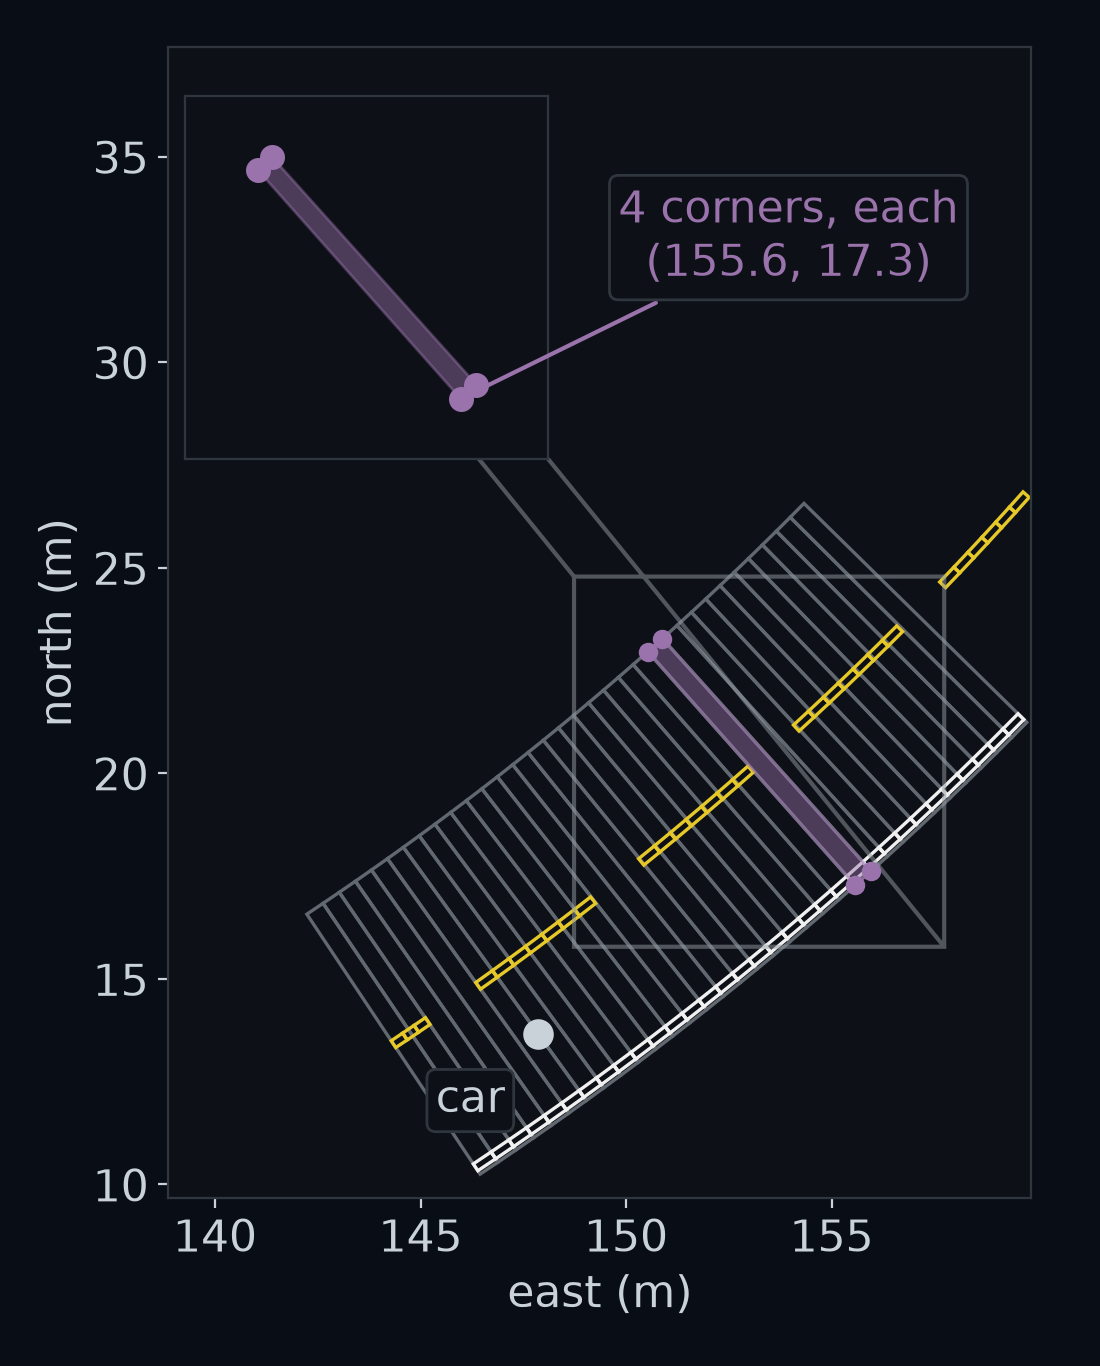
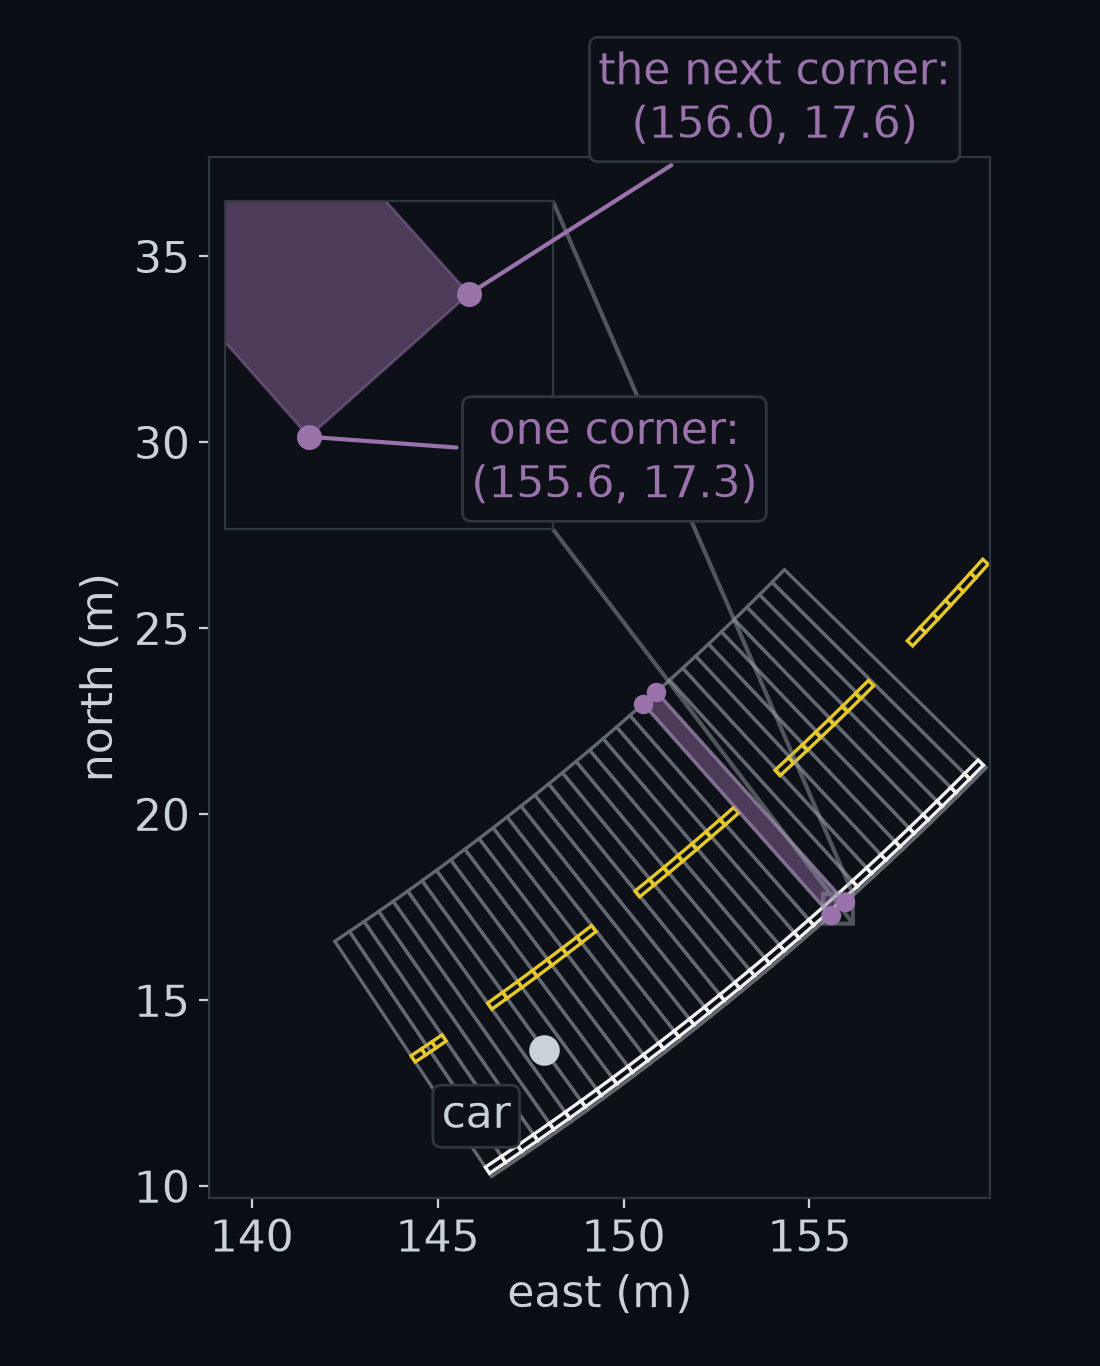
1.1.2: fix round 2 (re-review S2/S3)
- lecture: steering rule as a display, optional (c) in <details>: no run of words between figures over 300 (293 and 233, were 301 and 361); quads and two_dots captions match their figures
- lab.ipynb rebuilt from lab.py; lab text names the entry-by-entry comparison in B and the stand-in quads array
- grader: the yaw-0 message no longer claims "no rotation"; it says R(0) must be the identity; B's checked= names the renderer comparison
- tests: yaw measured from north and a 0.3 rad yaw offset get the same message
- figures: quads inset magnified over 10x with two labelled corners; leaders on shape_trap and order_trap; car labelled in order_trap; two_dots inset label off the heading line

diff --git a/course/1.1.2-the-view-from-the-drivers-seat/figures.py b/course/1.1.2-the-view-from-the-drivers-seat/figures.py
@@ -239,7 +239,7 @@ def _two_dots(d, path):
     inset.plot(*zip(v, foot), color=EGO, ls="--", lw=2)
     arrow(inset, tuple(v - 0.5 * v / np.linalg.norm(v)), tuple(v), TEXT, lw=3.5)
     inset.plot(*zip(foot - 0.12 * h, foot - 0.12 * h + 0.12 * n, foot + 0.12 * n), color=EGO, lw=1.5)
-    say(inset, tuple(v), f"{num(left)} m\nalong " + r"$\hat{n}$", dx=36, dy=-50, ha="center", colour=EGO)
+    say(inset, tuple(v), f"{num(left)} m\nalong " + r"$\hat{n}$", dx=14, dy=20, ha="center", colour=EGO)
     _save(fig, path)
 
 
@@ -359,7 +359,8 @@ def _order_trap(d, path):
     draw_lines(ax, lane_lines(d.gentle, 120, 200, d.pose, n=500), ego=True, box=((10, -90), (-15, 35)))
     car_dot(ax, (0, 0))
     ax.plot(right[1], right[0], "o", color=EGO, markersize=11, zorder=5)
-    say(ax, (right[1], right[0]), f"subtract, then turn\n({right[0]:.3f}, {right[1]:.3f})", dx=22, dy=-48, ha="left", colour=EGO)
+    say(ax, (right[1], right[0]), f"subtract, then turn\n({right[0]:.3f}, {right[1]:.3f})", dx=22, dy=-48, ha="left", colour=EGO, arrow=True)
+    say(ax, (0, 0), "car", dx=-4, dy=-30, badge=True, arrow=True)
     ax.plot(wrong[1], wrong[0], "x", color=GREY, markersize=14, markeredgewidth=3, zorder=5)
     say(ax, (wrong[1], wrong[0]), f"turn, then subtract\n({num(wrong[0])}, {num(wrong[1])})", dx=-24, dy=64, ha="right", colour=GREY, arrow=True)
     ego_axes(ax, (10, -90), (-15, 35))
@@ -437,13 +438,13 @@ def _quads(d, path):
     say(ax, (px, py), "car", dx=-12, dy=-24, ha="right", badge=True)
     ax.set(xlim=xlim, ylim=ylim, xlabel="east (m)", ylabel="north (m)")
     ax.set_aspect("equal", adjustable="box")
-    centre = pick.mean(axis=0)
-    half = 0.75 * float(np.ptp(pick, axis=0).max())
+    ends = pick[np.argsort(pick[:, 1])[:2]]  # the two corners at one end of the strip, 0.5 m apart
+    centre, half = ends.mean(axis=0), 0.4  # a 0.8 m window: over 10 times the main panel's scale
     inset = zoom_inset(ax, [0.02, 0.62, 0.42, 0.36], (centre[0] - half, centre[0] + half), (centre[1] - half, centre[1] + half))
     inset.add_patch(Polygon(pick, closed=True, fc=EGO, ec=EGO, alpha=0.45))
     inset.plot(pick[:, 0], pick[:, 1], "o", color=EGO, markersize=8)
-    corner = pick[int(np.argmin(pick[:, 1]))]
-    say(inset, tuple(corner), f"4 corners, each\n({corner[0]:.1f}, {corner[1]:.1f})", dx=118, dy=58, colour=EGO, badge=True, arrow=True)
+    for corner, word, dx, dy in zip(ends, ("one corner:", "the next corner:"), (110, 110), (-8, 70)):
+        say(inset, tuple(corner), f"{word}\n({corner[0]:.1f}, {corner[1]:.1f})", dx=dx, dy=dy, colour=EGO, badge=True, arrow=True)
     _save(fig, path)
 
 
@@ -460,9 +461,9 @@ def _shape_trap(d, path):
         ax.plot(left, fwd, "o", color=EGO, markersize=11, zorder=5)
         ax.plot(wl, wf, "x", color=GREY, markersize=14, markeredgewidth=3, zorder=5)
     say(ax, (right[0, 1], right[0, 0]), f"rows @ rot:\n({num(right[0, 0])}, {num(right[0, 1])})", dx=-30, dy=-40, ha="right", colour=EGO, badge=True, arrow=True)
-    say(ax, (right[1, 1], right[1, 0]), f"({num(right[1, 0])}, {num(right[1, 1])})", dx=26, dy=0, ha="left", colour=EGO, badge=True)
+    say(ax, (right[1, 1], right[1, 0]), f"({num(right[1, 0])}, {num(right[1, 1])})", dx=26, dy=0, ha="left", colour=EGO, badge=True, arrow=True)
     say(ax, (wrong[0, 1], wrong[0, 0]), f"rot @ rows:\n({num(wrong[0, 0])}, {num(wrong[0, 1])})", dx=-24, dy=-8, ha="right", colour=GREY, badge=True, arrow=True)
-    say(ax, (wrong[1, 1], wrong[1, 0]), f"({num(wrong[1, 0])}, {num(wrong[1, 1])})", dy=-36, colour=GREY, badge=True)
+    say(ax, (wrong[1, 1], wrong[1, 0]), f"({num(wrong[1, 0])}, {num(wrong[1, 1])})", dy=-36, colour=GREY, badge=True, arrow=True)
     say(ax, (19.5, 25.5), "no error\nmessage", colour=TEXT, badge=True)
     ego_axes(ax, xlim, ylim)
     ax.set_title("the car's own frame")

diff --git a/zero2fsd/grade/units/u1_1_2.py b/zero2fsd/grade/units/u1_1_2.py
@@ -23,7 +23,7 @@ NAMED_YAWS = {  # yaw label -> (yaw, what a pass at that yaw proves)
 }
 NAME_TOL = 1e-6  # how close `got` must be to a known wrong answer for the message to name that mistake
 GENERAL = ("a rotation mistake: check R(θ)ᵀ, θ in radians, and that you subtract t before rotating", "The rotation matrix")
-YAW_0 = ("yaw 0 has no rotation at all, so this is not a turn mistake: subtract the car's position first, then return (forward, left)",
+YAW_0 = ("wrong even at yaw 0, where R(0) must be the identity [[1, 0], [0, 1]]: check that rotation_matrix(0) gives it, that you subtract the car's position, and that you return (forward, left)",
          "Two dot products make a frame change")
 
 
@@ -45,7 +45,7 @@ def known_mistakes(pose, point):
 
 
 def name_the_mistake(pose, point, got, label):
-    """The headline for a wrong answer `got`: the mistake it matches, else yaw 0's text or the general rotation hint."""
+    """The headline for a wrong answer `got`: the mistake it matches, else yaw 0's text (the answer matches no known mistake, so say what yaw 0 must give) or the general rotation hint."""
     for answer, (what, section) in known_mistakes(pose, point):
         if got.shape == answer.shape and np.allclose(got, answer, atol=NAME_TOL):
             return f'wrong at yaw {label}: {what}. See the section "{section}"'
@@ -119,7 +119,7 @@ def check_against_renderer(fn) -> float:
 
 @exercise(
     "1.1.2.b",
-    checked=f"your world_to_ego inside the simulator's camera: the provided car must complete `{GATE_SCENARIO}` on the pictures it draws",
+    checked=f"your world_to_ego against the renderer's transform at {N_POSES} seeded poses, entry by entry, then inside the simulator's camera: the provided car must complete `{GATE_SCENARIO}` on the pictures it draws",
     section="Swap your transform into the renderer",
 )
 def _renderer_gate(fn, show, on_step):

diff --git a/tests/zero2fsd/test_u1_1_2.py b/tests/zero2fsd/test_u1_1_2.py
@@ -89,6 +89,14 @@ def shrunk_yaw(pose, p):  # a mistake the grader does not know by name: the yaw 
     return geom.world_to_ego((*pose[:2], 0.9 * pose[2]), p)
 
 
+def from_north(pose, p):  # the yaw taken from north (the y axis) instead of east
+    return geom.world_to_ego((*pose[:2], math.pi / 2 - pose[2]), p)
+
+
+def offset_yaw(pose, p):  # a rotation mistake the grader does not know and the reviewer did not name
+    return geom.world_to_ego((*pose[:2], pose[2] + 0.3), p)
+
+
 MISTAKES = {  # wrong answer -> the words its message must hold, and the section it must point to
     "swap": (r_not_transposed, "yaw pi/2: this is the swap", "Undo is the transpose"),
     "no rotation": (no_rotation, "yaw pi/2: this is no rotation", "Two dot products make a frame change"),
@@ -97,7 +105,9 @@ MISTAKES = {  # wrong answer -> the words its message must hold, and the section
     "inverse": (inverse, "this is ego_to_world", "Undo is the transpose"),
     "order": (left_first, "forward and left are in the wrong order", "Two dot products make a frame change"),
     "left flipped": (left_flipped, "left has the wrong sign", "Two dot products make a frame change"),
-    "sin and cos swapped": (sin_cos_swapped, "yaw 0 has no rotation at all", "Two dot products make a frame change"),
+    "sin and cos swapped": (sin_cos_swapped, "where R(0) must be the identity", "Two dot products make a frame change"),
+    "yaw measured from north": (from_north, "where R(0) must be the identity", "Two dot products make a frame change"),
+    "yaw offset by 0.3 rad": (offset_yaw, "where R(0) must be the identity", "Two dot products make a frame change"),  # in neither list
     "yaw scaled by 0.9": (shrunk_yaw, "a rotation mistake: check R(θ)ᵀ, θ in radians", "The rotation matrix"),  # not in the grader's list
 }
 

diff --git a/course/1.1.2-the-view-from-the-drivers-seat/lab.py b/course/1.1.2-the-view-from-the-drivers-seat/lab.py
@@ -193,7 +193,7 @@ practice("largest round-trip error (m)", round_trip, 0, tol=1e-12)
 # and check that the shape comes back unchanged and that the three answers match the lecture's table.
 
 # %%
-quads = np.zeros((146, 4, 2)) + lane_points[0]
+quads = np.zeros((146, 4, 2)) + lane_points[0]  # an array shaped like the road's (146, 4, 2), every corner at one point
 ego_quads = None  # your code: the road's array through world_to_ego
 ego_lane = None  # your code: the three lane-centre points through world_to_ego
 
@@ -253,7 +253,7 @@ practice("pictures that differ", pictures, 0, tol=0)
 # ![](figures/renderer_steps.png)
 
 # %% [markdown]
-# **Exercise B** puts your function in the camera and drives `gentle`. The provided car must complete it with a mean
+# **Exercise B** first compares your function with the renderer's transform entry by entry at 40 seeded poses, then puts it in the camera and drives `gentle`. The provided car must complete it with a mean
 # distance from the lane centre under 0.5 m. With the right transform the lap is identical to the provided one, near 0.376 m.
 
 # %%

diff --git a/course/1.1.2-the-view-from-the-drivers-seat/lecture.md b/course/1.1.2-the-view-from-the-drivers-seat/lecture.md
@@ -47,7 +47,7 @@ $$
 \end{aligned}
 $$
 
-![The arrow v from the car's front axle to the lane-centre point 10 m further along, 8.179 m east and 6.093 m north, with the car's heading arrow and left arrow drawn in purple. Dashed lines from the tip of v meet the two arrows' directions at right angles: 10.189 m along the heading arrow, and 0.453 m along the left arrow. A magnified inset shows the right angle where the dashed line meets the left arrow's direction.](figures/two_dots.png)
+![The arrow v from the car's front axle to the lane-centre point 10 m further along, 8.179 m east and 6.093 m north, with the car's heading arrow and left arrow drawn in purple. Dashed lines from the tip of v meet the two arrows' directions at right angles: 10.189 m along the heading arrow, and 0.453 m along the left arrow. A magnified inset shows the right angle where the short dashed line meets the heading line.](figures/two_dots.png)
 
 Those are the bottom panel's numbers for this point: 10.189 m ahead and 0.453 m to the left. Your `forward_left(theta, v)` from *Positions and headings* gives the same pair, (10.189, 0.453). It computes the left part as the cross product $\hat{h}\times\mathbf{v}$, which is the same multiply-and-add in a different order.
 
@@ -182,7 +182,7 @@ The camera never moves one point. To draw one picture, with the car parked on th
 
 The quads come in three arrays, one for each kind. The road surface's has shape (146, 4, 2): 146 quads, 4 corners each, 2 numbers per corner. 146 strips 0.5 m long cover 73 m, from 3 m behind the car to 70 m ahead. The white line's array has the same shape, and the yellow dashes' is (103, 4, 2). So the camera calls `world_to_ego` 3 times per picture, with a whole array each time.
 
-![The road around the car parked on the lane centre 150 m along gentle, seen from above, with every quad outlined: strips of road surface 0.5 m long, strips of white line, and yellow dashes. One road quad is shaded, with its 4 corners marked as dots. Each corner is 2 numbers, east and north. A magnified inset shows the shaded quad, and a badge marks the car.](figures/quads.png)
+![The road around the car parked on the lane centre 150 m along gentle, seen from above, with every quad outlined: strips of road surface 0.5 m long, strips of white line, and yellow dashes. One road quad is shaded, with its 4 corners marked as dots. Each corner is 2 numbers, east and north. A magnified inset, over 10 times the scale of the main panel, shows two of the shaded quad's corners, 0.5 m apart, with their east and north numbers; a badge marks the car.](figures/quads.png)
 
 In NumPy a list of N points is stored as rows: shape (N, 2), one row per point, east part first. The maths above wrote arrows as columns. To use R(θ) on rows, flip the product around. A row written before a matrix is dotted with each of the matrix's columns. The columns of R(θ) are the heading and left arrows, so a row $\mathbf{v}$ times R(θ) gives $(\mathbf{v}\cdot\hat{h},\ \mathbf{v}\cdot\hat{n})$: forward, then left. That is $R(\theta)^{\mathsf T}\mathbf{v}$, written as a row.
 
@@ -275,7 +275,13 @@ Park the car on `straight` 50 m from the start, 0.3 m left of the lane centre, p
 
 ![Two camera pictures of a car parked on straight, stacked: 50 m from the start, 0.3 m left of the lane centre, pointing 0.05 rad right. Top: through the right transform; the perception box reads an offset of 0.3063 m and a heading of −0.0517 rad. Bottom: through the swap; it reads 0.2964 m and +0.0506 rad.](figures/park_box.png)
 
-The controller steers by $-(k_{\text{off}} \cdot \text{offset} + k_{\text{head}}\,\psi)$ from *Closing the loop*, with the box's heading in place of ψ. With that sign flipped, a car pointing a little to one side is told it points to the other, so it steers further the way it already points and the error feeds itself. After the first step e is $2.51\times10^{-5}$ m. It flips sign and grows to 0.0382 m at 1.00 s and 0.2724 m at 2.00 s; then it swings back across the lane centre and leaves the lane at 2.95 s.
+The controller steers by the rule from *Closing the loop*, with the box's heading in place of ψ:
+
+$$
+\delta = -(k_{\text{off}} \cdot \text{offset} + k_{\text{head}}\,\psi)
+$$
+
+With that sign flipped, a car pointing a little to one side is told it points to the other, so it steers further the way it already points and the error feeds itself. After the first step e is $2.51\times10^{-5}$ m. It changes sign and grows to 0.0382 m at 1.00 s and 0.2724 m at 2.00 s; then it swings back across the lane centre and leaves the lane at 2.95 s.
 
 So a test of a transform needs yaws where sin θ is well away from 0, like π/2 and −3π/4, and many random poses. The lab checks the four yaws in the table and 40 random poses against the simulator's own transform; at those 40, the swap is off by up to 704 m and no rotation by up to 751 m.
 
@@ -300,7 +306,13 @@ Both problems explain the swapped car's run on `straight`.
 1. **Why the swap flips the heading.** For small angles cos θ ≈ 1 and sin θ ≈ θ, an approximation; at 0.02 rad, cos θ = 0.9998 and sin θ = 0.0200.
    - (a) Show that R(θ) = R(−θ)ᵀ for every θ. Write R(θ)ᵀ and R(θ) for a small θ, and explain why, on `straight`, the swapped box reads the heading as −ψ while the offset hardly changes. Compare with the parked car's numbers above, and with a second parked car pointing 0.02 rad left.
    - (b) On a straight, the car's yaw changes at $v\,\delta / L$ radians per second, with v = 8.0 m/s and L = 2.7 m, the wheelbase from *Meet your car*. Leave out the offset term and show that, with the swap, ψ grows by a factor of $\mathrm{e}$ every 0.125 s, where $\mathrm{e}$ is the number 2.718 from *Closing the loop*, not the offset $e$, while the right transform shrinks it just as fast. Fitting the swapped car's own steps gives a growth of 2.387 per second instead. Which part of the answer is right, and which is not?
-   - (c) Optional. Keep both terms. Using the front-axle model, the offset changes at $v(\psi + \delta)$ metres per second. Write both rates as a matrix times (e, ψ), and use this fact, stated without proof, to find how fast the swapped car's error grows and how often it swings. For a matrix [[a, b], [c, d]], write tr = a + d and det = ad − bc. If (tr/2)² is less than det, the motion is a swing whose size grows like $\mathrm{e}^{(\mathrm{tr}/2)\,\text{time}}$ and which repeats every 2π/√(det − (tr/2)²) seconds. If (tr/2)² is bigger than det, there is no swing: the motion is two exponentials, with rates tr/2 + √((tr/2)² − det) and tr/2 − √((tr/2)² − det) per second. Compare with the fit.
+   - (c) Optional.
+     <details>
+     <summary>Optional (c): the matrix form, with the fact it needs</summary>
+
+     Keep both terms. Using the front-axle model, the offset changes at $v(\psi + \delta)$ metres per second. Write both rates as a matrix times (e, ψ), and use this fact, stated without proof, to find how fast the swapped car's error grows and how often it swings. For a matrix [[a, b], [c, d]], write tr = a + d and det = ad − bc. If (tr/2)² is less than det, the motion is a swing whose size grows like $\mathrm{e}^{(\mathrm{tr}/2)\,\text{time}}$ and which repeats every 2π/√(det − (tr/2)²) seconds. If (tr/2)² is bigger than det, there is no swing: the motion is two exponentials, with rates tr/2 + √((tr/2)² − det) and tr/2 − √((tr/2)² − det) per second. Compare with the fit.
+
+     </details>
 2. **Turns add up.** Using the angle-sum rules, cos(a + b) = cos a cos b − sin a sin b and sin(a + b) = sin a cos b + cos a sin b, show that R(a)R(b) = R(a + b). Then show that the car's heading arrow, sent into its own ego frame, is (1, 0) at every pose.
 
 <details>
